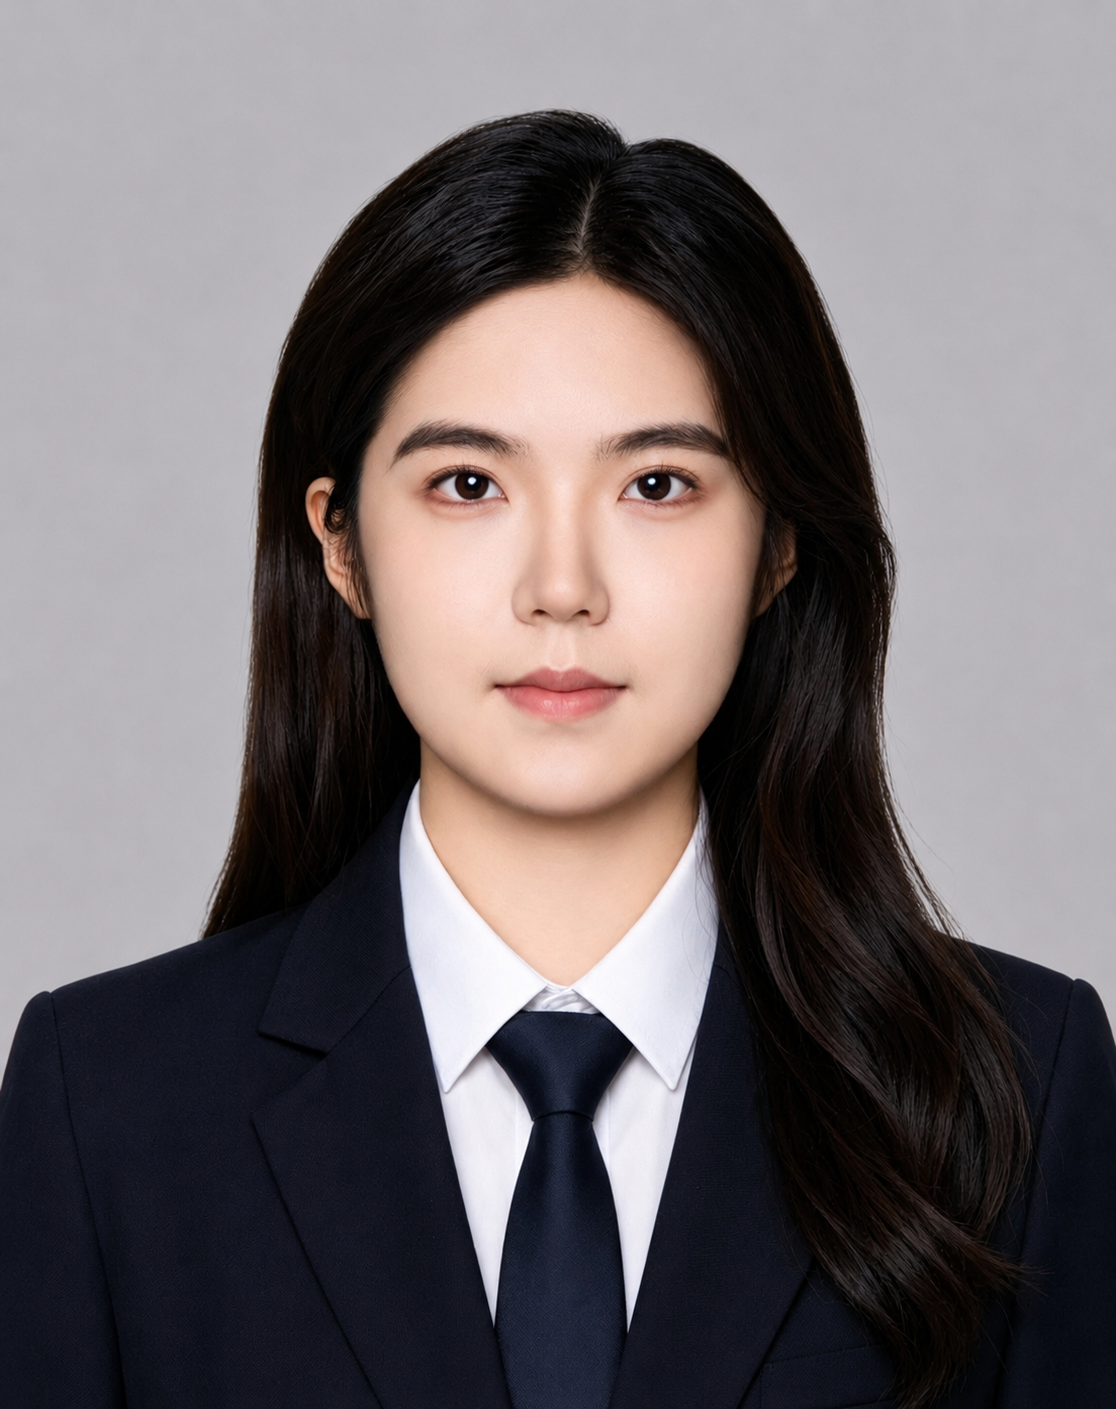
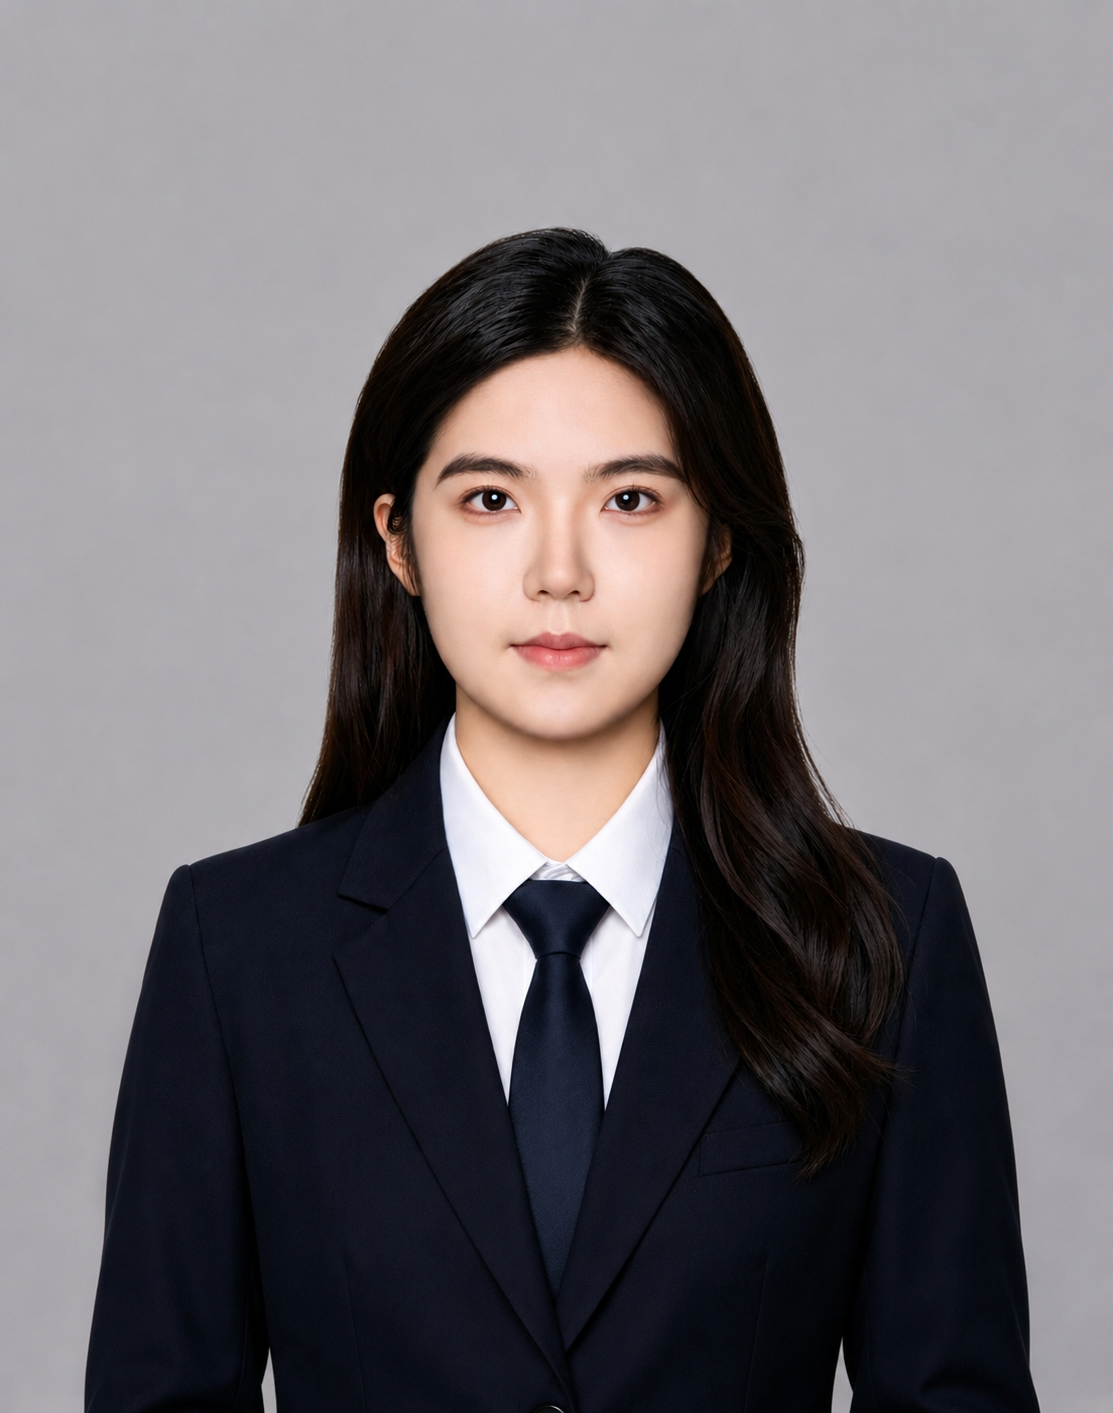
update

diff --git a/organizers.html b/organizers.html
@@ -209,7 +209,7 @@
               <p class="student-coorg-name">Nethmi Muthugala</p>
             </div>
             <div class="student-coorg-card">
-              <div class="student-coorg-photo student-coorg-photo--nudge-down-more">
+              <div class="student-coorg-photo">
                 <img src="images/students/SiyiHaoTianjinUniversity.png" alt="Portrait of Siyi Hao" width="200" height="200" loading="lazy" decoding="async" />
               </div>
               <p class="student-coorg-name">Siyi Hao</p>
